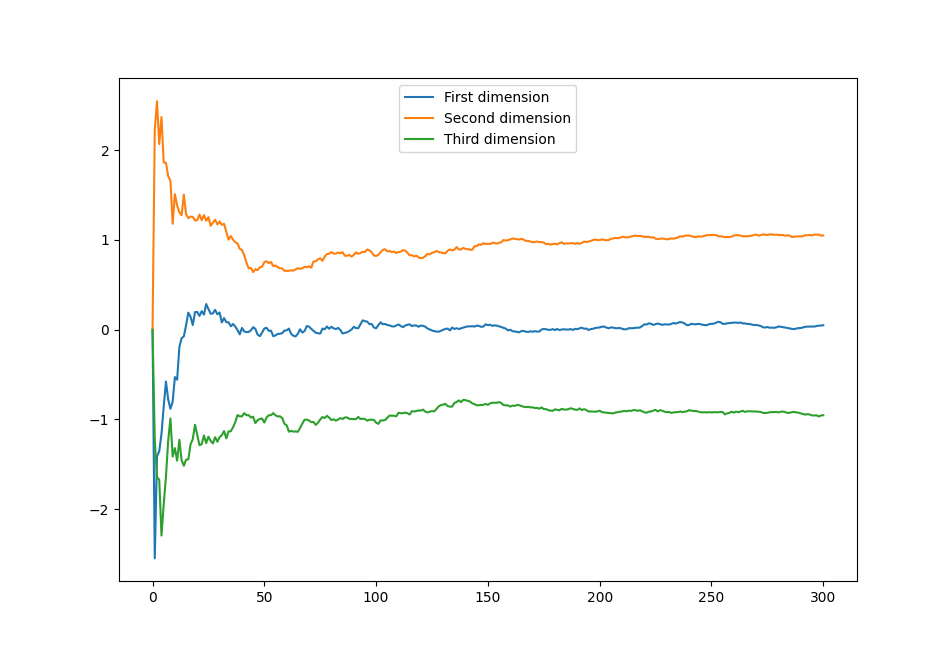
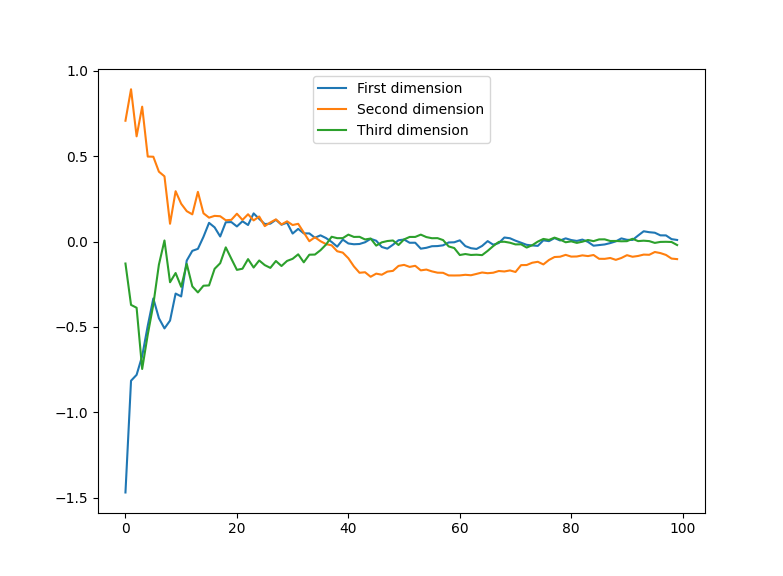
sldkjf

diff --git a/04_classification/Steinarr4.py b/04_classification/Steinarr4.py
@@ -108,7 +108,17 @@ def maximum_aposteriori(
     priors = []
     for c in classes:
         priors.append(np.count_nonzero(train_targets == c) / len(train_targets))
-    
+    posterior = maximum_likelihood(train_features, train_targets, test_features, classes)
+
+    return posterior*np.array(priors)
+
+def confusion_matrix(classes, predictions, actual):
+    matrix = np.zeros((len(classes), len(classes)), int)
+    for i, a in enumerate(classes):
+        for j, p in enumerate(classes):
+            matrix[j, i] = np.count_nonzero(predictions[np.where(actual == a)] == p)
+
+    return matrix
 
 
 if __name__ == '__main__':
@@ -116,6 +126,33 @@ if __name__ == '__main__':
     features, targets, classes = load_iris()
     (train_features, train_targets), (test_features, test_targets) \
         = split_train_test(features, targets, train_ratio=0.6)
+
+
+    print(f"\n\n{'-' * 20}\n\t Independent\n")
+    # remove some train features from class 1
+    if True:
+        np.random.seed(1234)
+        n = 1000
+        features = np.random.randint(0, 2, (n, 10))
+        targets = np.random.randint(0, 4, n)
+        classes = np.array([0, 1, 2, 3])
+
+        # remove two thirds of datapoints when the die threw 0 or 1
+        # thus making the die unfair
+        some_positions = np.where(targets <= 1)[0]
+        positions2remove = some_positions[some_positions.shape[0] // 4:]
+        targets = np.delete(targets, positions2remove)
+        features = np.delete(features, positions2remove, axis=0)
+
+        # c1_positions = np.where(targets == 1)[0]
+        # positions2remove = c1_positions[c1_positions.shape[0] // 3:]
+        # targets = np.delete(targets, positions2remove)
+        # features = np.delete(features, positions2remove, axis=0)
+
+        (train_features, train_targets), (test_features, test_targets) \
+            = split_train_test(features, targets, train_ratio=0.6)
+
+
     print(f"\n\n{'-' * 20}\n\t Part 1.1 \n")
     print(f"{mean_of_class(train_features, train_targets, 0)=}")
 
@@ -135,11 +172,52 @@ if __name__ == '__main__':
     likelihoods = maximum_likelihood(train_features, train_targets, test_features, classes)
     print(f"{predict(likelihoods)}")
 
-    print(f"\n\n{'-' * 20}\n\t Part 2.1 \n")
+    print(f"\n\n{'-' * 20}\n\t Part 2\n")
+    post_likelihoods = maximum_aposteriori(train_features, train_targets, test_features, classes)
+    print(predict(likelihoods) == test_targets)
+    print(confusion_matrix(classes, test_targets, predict(likelihoods)))
+    print(confusion_matrix(classes, test_targets, predict(post_likelihoods)))
 
 
+    def format_matrix(matrix, environment="bmatrix", formatter=str):
+        """Format a matrix using LaTeX syntax"""
 
+        if not isinstance(matrix, np.ndarray):
+            try:
+                matrix = np.array(matrix)
+            except Exception:
+                raise TypeError("Could not convert to Numpy array")
 
+        if len(shape := matrix.shape) == 1:
+            matrix = matrix.reshape(1, shape[0])
+        elif len(shape) > 2:
+            raise ValueError("Array must be 2 dimensional")
+
+        body_lines = [" & ".join(map(formatter, row)) for row in matrix]
+
+        body = "\\\\\n".join(body_lines)
+        return f"""\\begin{{{environment}}}
+    {body}
+    \\end{{{environment}}}"""
+
+    print(format_matrix(confusion_matrix(classes, test_targets, predict(likelihoods))))
+    print(format_matrix(confusion_matrix(classes, test_targets, predict(post_likelihoods))))
+    print(np.count_nonzero(test_targets == predict(likelihoods))/test_targets.shape[0])
+    print(np.count_nonzero(test_targets == predict(post_likelihoods))/test_targets.shape[0])
+
+    # print(f"\n\n{'-' * 20}\n\t Independent\n")
+
+    # # remove some train features from class 1
+    # if True:
+    #     c1_positions = np.where(train_targets == 1)[0]
+    #     positions2remove = c1_positions[c1_positions.shape[0] // 3:]
+    #     train_targets = np.delete(train_targets, positions2remove)
+    #     train_features = np.delete(train_features, positions2remove, axis=0)
+    #     c1_positions = np.where(test_targets == 1)[0]
+    #     positions2remove = c1_positions[c1_positions.shape[0] // 3:]
+    #     test_targets = np.delete(test_targets, positions2remove)
+    #     test_features = np.delete(test_features, positions2remove, axis=0)
+    #     print(train_targets)
 
 
 

diff --git a/03_sequential_estimation/Steinarr3.py b/03_sequential_estimation/Steinarr3.py
@@ -44,8 +44,8 @@ def update_sequence_mean(
     '''
     return mu + (x - mu)/n
 
-def gen_sequence_estimation(mean = np.array([0, 1, -1])):
-    data = gen_data(100, 3, mean, np.sqrt(3))
+def gen_sequence_estimation(mean = np.array([0, 0, 0])):
+    data = gen_data(100, 3, mean, 1)
     estimates = [np.array([0, 0, 0])]
     for i in range(data.shape[0]):
         estimates.append(update_sequence_mean(estimates[i], data[i], i+1))
@@ -53,6 +53,7 @@ def gen_sequence_estimation(mean = np.array([0, 1, -1])):
 
 def _plot_sequence_estimate():
     # generate sequence estimation in a seperate function so it can be reused later
+    # mean = np.array([0, 1, -1])
     estimates = gen_sequence_estimation()
     plt.plot([e[0] for e in estimates], label='First dimension')
     plt.plot([e[1] for e in estimates], label='Second dimension')
@@ -154,6 +155,7 @@ if __name__ == "__main__":
     # bar_per_axis(X)
 
     print(f"\n\n{'-' * 20}\n\t Part 1.4 \n")
+    
     mean = np.mean(X, 0)
     new_x = gen_data(1, 3, np.array([0, 0, 0]), 1)
     print(f"{update_sequence_mean(mean, new_x, X.shape[0])}")
